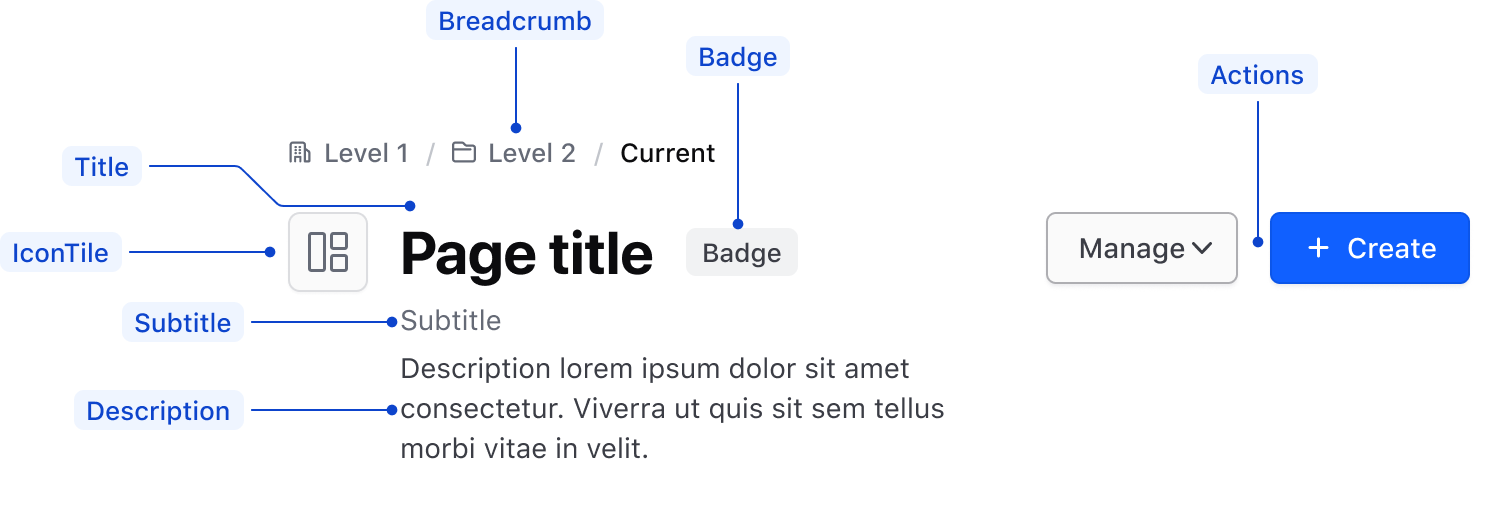
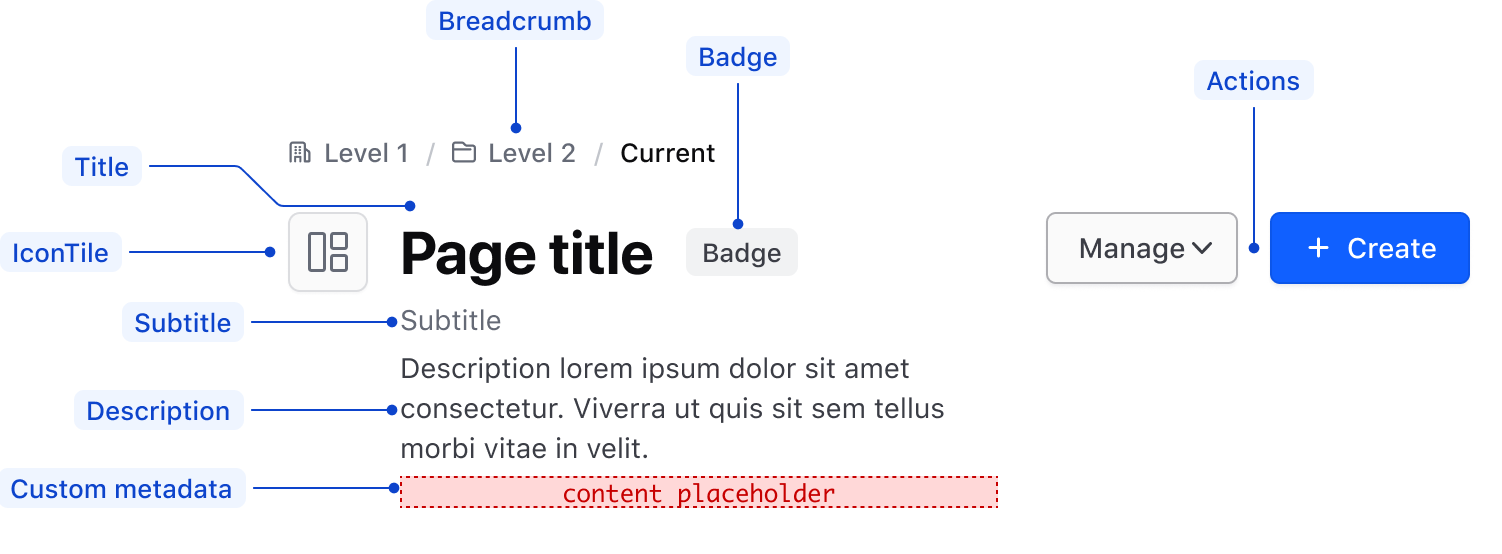
Updating guidelines, anatomy, and accessibility content

diff --git a/website/docs/components/page-header/partials/guidelines/guidelines.md b/website/docs/components/page-header/partials/guidelines/guidelines.md
@@ -173,7 +173,7 @@ Instead, link to more complex content using an [Inline Link](/components/link/in
 
 ## Custom metadata
 
-If necessary to include metadata like key/value pairs, multiple page-level statuses, or other non-string-based content, use the `customMetadata` property in Figma to expose a placeholder. In the Ember component we expose a `generic` container that yields it's content.
+If necessary to include metadata like key/value pairs, multiple page-level statuses, or other non-string-based content, custom metadata can be passed to the component via the `customMetadata` property in Figma, or the `<[PH].Generic>` contextual component in Ember.
 
 <Hds::PageHeader as |PH|>
   <PH.Title>Terraform Workspace</PH.Title>
@@ -192,11 +192,13 @@ If necessary to include metadata like key/value pairs, multiple page-level statu
 
 ### Key/value pairs as custom metadata
 
+Representing metadata with a set of key/value pairs is common in HashiCorp products and can be useful when communicating relational information between products and versioning among other more complex data types.
+
 ![Custom metadata key/value pairs](/assets/components/page-header/page-header-custom-metadata.png =600x*)
 
 !!! Dont
 
-Don't exceed more than four metadata objects or key/value pairs, this can result in unnecessarily complex content with the Page Header. Instead, move this content into the page.
+We recommend not exceeding more than four metadata objects or key/value pairs, this can result in unnecessarily complex content with the Page Header. Instead, move this content into the page.
 
 ![Complex metadata dont](/assets/components/page-header/page-header-custom-metadata-dont.png)
 
@@ -204,7 +206,7 @@ Don't exceed more than four metadata objects or key/value pairs, this can result
 
 ## Actions
 
-Use actions in the Page Header to highlight page-level functions and actions that impact the page as a whole. Common components used to perform actions within the Page Header are [Buttons](/components/button) and [Dropdowns](/components/dropdown) and can include:
+Use [Buttons](/components/button) and [Dropdowns](/components/dropdown) in the Page Header to highlight page-level functions and actions that impact the page as a holistcally.
 
 - Creating new objects that are contained within the page
 - Surfacing management details like connecting to an API
@@ -241,7 +243,33 @@ Use actions in the Page Header to highlight page-level functions and actions tha
 
 ### Action usage
 
-While the Page Header supports up to three actions in Figma, we recommend limiting the number actions to one or two for most scenarios. These actions should generally consist of a primary action (using the `@color="primary"` property) and a secondary action or management function (using the `@color="secondary"` property). This more easily highlights the primary action on the page visually and establishes and implied inverse relationship between each action.
+#### Primary button
+
+Use a primary [Button](/components/button) in the Page Header to trigger the primary flow on the page. Examples of this include:
+
+- A flow that creates an object that is related to the page, e.g., creating a new cluster or adding a new user.
+- Launching or deploying a specific product instance
+
+#### Secondary button
+
+Use a secondary [Button](/components/button) in the Page Header when a secondary action is needed, e.g., editing the content on a page, managing access, etc.
+
+#### Dropdowns
+
+Use a [Dropdown](/components/dropdown) in the Page Header to collect additional secondary functions and tasks, or elements that assist the user in managing the information or objects on the page.
+
+Common examples of this include:
+
+- Copying API credentials to manage the object remotely
+- Editing or changing settings
+- Deleting or deactivating an object
+- Linking to documentation
+
+When used in these scenarios and paired with a primary "create" action, use secondary [Dropdown](/components/dropdown) variant.
+
+### Action color and pairing
+
+While the Page Header supports up to three actions in Figma, we recommend limiting the number actions to no more than two for most pages. These actions should generally consist of a primary action (using the `@color="primary"` property) and a secondary action or management function (using the `@color="secondary"` property). This highlights the relationship between the actions and the page content, while visually guiding the user to a primary action.
 
 For more details on how to combine, order, and organize Buttons, refer to the [Button order, organization, and alignment](/patterns/button-organization) pattern documentation.
 
@@ -261,12 +289,12 @@ Don't pair two primary actions in a Page Header. For guidance on how to pair act
 
 ## Responsiveness
 
-The Page Header component in Figma supports two sizes; `large` which accounts for the majority of desktop sizes and large tablets, and `small` which accounts for smaller tablet and mobile devices. The core difference between each variant is the stacking of elements.
+The Page Header component in Figma supports two sizes; `large` which accounts for the majority of desktop sizes and large tablets, and `small` which accounts for smaller tablet and mobile devices. The core difference between each variant is the vertical stacking of elements.
 
 The Ember component uses a variety of different methods to ensure fluidity and responsiveness:
 
-- By default, the component will fill the page layout it is used within. It does not have any padding or margin applied explicitly to adapt to different layout and spacing methods.
-- The component has breakpoints by means of a container query, one at `700px` and one at `400px`, that account for the majority of content within the component and stack elements in columns as the container shrinks.
+- By default, the component will fill the page layout it is used within. It does not have any padding or margin explicitly applied to adapt to different layout and spacing methods.
+- The component has breakpoints by means of container queries (at `700px` and one at `400px`) that account for the majority of content within the component and stack elements in a single column as the container shrinks.
 - Elements displayed inline with each other (e.g., title and badges) have `flex-wrap: wrap;` set to wrap elements when the available space reduces. 
 
 !!! Info

diff --git a/website/docs/components/page-header/partials/accessibility/accessibility.md b/website/docs/components/page-header/partials/accessibility/accessibility.md
@@ -1,17 +1,8 @@
 ## Conformance rating
 
-<!-- Update conformance rating badge with correct status and remove the others -->
 <Doc::Badge @type="success">Conformant</Doc::Badge>
 
 When used as recommended, there should not be any WCAG conformance issues with this component.
-
-<Doc::Badge @type="warning">Conditionally conformant</Doc::Badge>
-
-Explain how the component is conditionally conformant. For example, any component that offers text truncation is conditionally conformant- it is conformant as long as the text truncation feature is not used.
-
-<Doc::Badge @type="critical">Not conformant</Doc::Badge>
-
-The `Component Name` component is not WCAG-conformant on its own. (Explain how to use it in a conformant way)
 
 ## Applicable WCAG Success Criteria
 

diff --git a/website/docs/components/page-header/index.md b/website/docs/components/page-header/index.md
@@ -2,13 +2,12 @@
 title: Page Header
 description: An informational element that displays the title of the page, relevant metadata, and page-level actions.
 caption: Displays the title of the page, metadata, and page-level actions.
-status: in-progress
+status: complete
 links:
   figma:
-  github:
+  github: https://github.com/hashicorp/design-system/tree/main/packages/components/addon/components/hds/page-header
 previewImage: assets/illustrations/components/page-header.jpg
 navigation:
-  hidden: false
   keywords:
     ['title', 'action bar', 'breadcrumb', 'landmark', 'header', 'banner']
 ---

diff --git a/website/docs/components/page-header/partials/specifications/anatomy.md b/website/docs/components/page-header/partials/specifications/anatomy.md
@@ -4,11 +4,11 @@
 
 | Element | Usage |
 |---------|-------|
-| Title | Required, renders the page title or header. |
-| Breadcumb | Optional  |
+| Title | Required |
+| Breadcumb | Optional, but recommended for any page not at the top level of the hierarchy  |
 | IconTile | Optional |
 | Badges | Optional |
 | Subtitle | Optional |
 | Description | Optional |
 | Custom metadata | Optional |
-| Actions | Optional, renders either one, two, or three actions |
+| Actions | Optional, supports either one, two, or three actions |
